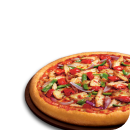
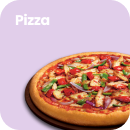
home page is done

diff --git a/project_two/lib/screens/home.dart b/project_two/lib/screens/home.dart
@@ -1,18 +1,91 @@
 import 'package:flutter/material.dart';
+import 'package:project_two/extentions.dart';
+import 'package:project_two/widgets/category_selection_buttons_list.dart';
+import 'package:project_two/widgets/food_menu_list.dart';
+import 'package:project_two/widgets/resturant.dart';
+import 'package:project_two/widgets/resturant_list.dart';
+import 'package:project_two/widgets/search_bar.dart';
 
-class HomeScreen extends StatefulWidget {
+class HomeScreen extends StatelessWidget {
   const HomeScreen({super.key});
 
   @override
-  State<HomeScreen> createState() => _HomeScreenState();
-}
-
-class _HomeScreenState extends State<HomeScreen> {
-  @override
   Widget build(BuildContext context) {
-    return const Scaffold(
-      backgroundColor: Colors.green,
-      body: Center(child: Text("Home")),
+    return Scaffold(
+      body: SingleChildScrollView(
+        scrollDirection: Axis.vertical,
+        child: Center(
+            child: SafeArea(
+                child: Column(children: [
+          const MySearchBar(),
+          Padding(
+            padding:
+                EdgeInsets.only(left: context.getWidithSizing(number: 0.05)),
+            child: const Row(children: [
+              ImageIcon(size: 40, AssetImage('lib/assets/icons/pin.png')),
+              Text(
+                "9 West 46 Th Street, New York City",
+                style: TextStyle(
+                    fontSize: 12,
+                    fontWeight: FontWeight.w400,
+                    fontFamily: 'Roboto'),
+              ),
+            ]),
+          ),
+          const CategoryButtonsList(),
+          Padding(
+            padding: EdgeInsets.only(
+                left: context.getWidithSizing(number: 0.05),
+                right: context.getWidithSizing(number: 0.05)),
+            child: const Row(
+                mainAxisAlignment: MainAxisAlignment.spaceBetween,
+                children: [
+                  Text(
+                    "Food Menu",
+                    style: TextStyle(
+                        fontFamily: 'Poppins',
+                        fontWeight: FontWeight.w700,
+                        fontSize: 18),
+                  ),
+                  Text(
+                    //make clickable?
+                    "View All",
+                    style: TextStyle(
+                        fontFamily: 'Roboto',
+                        fontWeight: FontWeight.w400,
+                        fontSize: 12),
+                  )
+                ]),
+          ),
+          const MenuList(),
+          Padding(
+            padding: EdgeInsets.only(
+                left: context.getWidithSizing(number: 0.05),
+                right: context.getWidithSizing(number: 0.05)),
+            child: const Row(
+                mainAxisAlignment: MainAxisAlignment.spaceBetween,
+                children: [
+                  Text(
+                    "Near Me",
+                    style: TextStyle(
+                        fontFamily: 'Poppins',
+                        fontWeight: FontWeight.w700,
+                        fontSize: 18),
+                  ),
+                  Text(
+                    //make clickable?
+                    "View All",
+                    style: TextStyle(
+                        fontFamily: 'Roboto',
+                        fontWeight: FontWeight.w400,
+                        fontSize: 12),
+                  )
+                ]),
+          ),
+          // const Resturant(),
+          const ResturantList()
+        ]))),
+      ),
     );
   }
 }

diff --git a/project_two/lib/widgets/category_selection_buttons_list.dart b/project_two/lib/widgets/category_selection_buttons_list.dart
@@ -1,0 +1,65 @@
+import 'package:flutter/material.dart';
+import 'package:project_two/extentions.dart';
+import 'package:project_two/widgets/category_selection_button.dart';
+
+class CategoryButtonsList extends StatelessWidget {
+  const CategoryButtonsList({super.key});
+
+  @override
+  Widget build(BuildContext context) {
+    return SingleChildScrollView(
+      scrollDirection: Axis.horizontal,
+      child: Padding(
+        padding: EdgeInsets.only(bottom: context.getWidithSizing(number: 0.05)),
+        child: const Row(
+          children: [
+            Column(children: [
+              CategoryButton(
+                iconColor: Color(0xFF000000),
+                buttonColor: Color(0xFFECF0F1),
+                iconPath: 'lib/assets/icons/coffee-cup.png',
+              ),
+              Text(
+                "Drink",
+                style: TextStyle(fontWeight: FontWeight.w400),
+              )
+            ]),
+            Column(children: [
+              CategoryButton(
+                iconColor: Color(0xFFFFFFFF),
+                buttonColor: Color(0xFFD35400),
+                iconPath: 'lib/assets/icons/burger.png',
+              ),
+              Text(
+                "Food",
+                style: TextStyle(fontWeight: FontWeight.w400),
+              )
+            ]),
+            Column(children: [
+              CategoryButton(
+                iconColor: Color(0xFF000000),
+                buttonColor: Color(0xFFECF0F1),
+                iconPath: 'lib/assets/icons/piece-of-cake.png',
+              ),
+              Text(
+                "Cake",
+                style: TextStyle(fontWeight: FontWeight.w400),
+              )
+            ]),
+            Column(children: [
+              CategoryButton(
+                iconColor: Color(0xFF000000),
+                buttonColor: Color(0xFFECF0F1),
+                iconPath: 'lib/assets/icons/potato-chips.png',
+              ),
+              Text(
+                "Snack",
+                style: TextStyle(fontWeight: FontWeight.w400),
+              )
+            ]),
+          ],
+        ),
+      ),
+    );
+  }
+}

diff --git a/project_two/lib/screens/navgation_bar.dart b/project_two/lib/screens/navgation_bar.dart
@@ -12,6 +12,7 @@ class Navigation extends StatefulWidget {
 
 class _NavigationState extends State<Navigation> {
   int selected = 0;
+  Color selectedColor = const Color(0xFFD35400);
   List<Widget> list = [
     const HomeScreen(),
     const OrderScreen(),
@@ -22,19 +23,23 @@ class _NavigationState extends State<Navigation> {
     return Scaffold(
       body: list[selected],
       bottomNavigationBar: BottomNavigationBar(
+          selectedItemColor: selectedColor, //color brightness?
+          selectedIconTheme: IconThemeData(color: selectedColor),
           currentIndex: selected,
           onTap: (index) {
             selected = index;
             setState(() {});
           },
-          items: [
+          items: const [
             BottomNavigationBarItem(
-                icon: Image.asset('lib/assets/icons/store.png'), label: "Home"),
+                icon: ImageIcon(AssetImage('lib/assets/icons/store.png')),
+                label: "Home"),
             BottomNavigationBarItem(
-                icon: Image.asset('lib/assets/icons/shopping_list .png'),
+                icon: ImageIcon(
+                    AssetImage('lib/assets/icons/shopping_list .png')),
                 label: "Order"),
             BottomNavigationBarItem(
-                icon: Image.asset('lib/assets/icons/person.png'),
+                icon: ImageIcon(AssetImage('lib/assets/icons/person.png')),
                 label: "Profile")
           ]),
     );

diff --git a/project_two/lib/widgets/resturant.dart b/project_two/lib/widgets/resturant.dart
@@ -1,0 +1,45 @@
+import 'package:flutter/material.dart';
+
+class Resturant extends StatelessWidget {
+  const Resturant({super.key});
+
+  @override
+  Widget build(BuildContext context) {
+    return Padding(
+      padding: const EdgeInsets.only(top: 16.0, left: 16.0),
+      child: Row(children: [
+        Image.asset('lib/assets/images/resturant.png'),
+        Padding(
+          padding: const EdgeInsets.all(8.0),
+          child:
+              Column(crossAxisAlignment: CrossAxisAlignment.start, children: [
+            const Padding(
+              padding: EdgeInsets.only(left: 7.0),
+              child: Text(
+                'Dapur Ijah Restaurant',
+                style: TextStyle(
+                    fontFamily: 'Poppins',
+                    fontWeight: FontWeight.w700,
+                    fontSize: 14),
+              ),
+            ),
+            const Row(children: [
+              ImageIcon(AssetImage('lib/assets/icons/pin.png')),
+              Text('13 th Street, 46 W 12th St, NY')
+            ]),
+            const Row(
+              children: [
+                ImageIcon(AssetImage('lib/assets/icons/clock.png')),
+                Text('3 min - 1.1 km')
+              ],
+            ),
+            Padding(
+              padding: const EdgeInsets.only(left: 7.0),
+              child: Image.asset('lib/assets/icons/stars.png'),
+            )
+          ]),
+        )
+      ]),
+    );
+  }
+}

diff --git a/project_two/lib/widgets/category_selection_button.dart b/project_two/lib/widgets/category_selection_button.dart
@@ -1,0 +1,39 @@
+import 'package:flutter/material.dart';
+import 'package:project_two/extentions.dart';
+
+class CategoryButton extends StatelessWidget {
+  const CategoryButton(
+      {super.key,
+      required this.iconColor,
+      required this.buttonColor,
+      required this.iconPath});
+  final Color iconColor;
+  final String iconPath;
+  final Color buttonColor;
+
+  @override
+  Widget build(BuildContext context) {
+    return Padding(
+      padding: EdgeInsets.only(
+        top: context.getWidithSizing(number: 0.05),
+        left: context.getWidithSizing(number: 0.05),
+        right: context.getWidithSizing(number: 0.05),
+        bottom: context.getWidithSizing(number: 0.02),
+      ),
+      child: ClipRRect(
+        borderRadius: BorderRadius.circular(20),
+        child: SizedBox(
+          width: 70,
+          height: 70,
+          child: ElevatedButton(
+              style: ButtonStyle(
+                  backgroundColor:
+                      MaterialStateColor.resolveWith((states) => buttonColor)),
+              onPressed: () {},
+              child:
+                  ImageIcon(size: 30, color: iconColor, AssetImage(iconPath))),
+        ),
+      ),
+    );
+  }
+}

diff --git a/project_two/lib/widgets/search_bar.dart b/project_two/lib/widgets/search_bar.dart
@@ -1,0 +1,24 @@
+import 'package:flutter/material.dart';
+import 'package:project_two/extentions.dart';
+
+class MySearchBar extends StatelessWidget {
+  const MySearchBar({super.key});
+  final fillColor = const Color(0xFFECF0F1);
+  @override
+  Widget build(BuildContext context) {
+    return Padding(
+        padding: EdgeInsets.only(
+            top: context.getHeightSizing(number: 0.05),
+            right: context.getWidithSizing(number: 0.05),
+            left: context.getWidithSizing(number: 0.05)),
+        child: TextField(
+            decoration: InputDecoration(
+                filled: true,
+                fillColor: fillColor,
+                enabledBorder: OutlineInputBorder(
+                    borderRadius: BorderRadius.circular(30),
+                    borderSide: BorderSide(color: fillColor)),
+                hintText: "Search",
+                prefixIcon: const Icon(Icons.search))));
+  }
+}

diff --git a/project_two/lib/widgets/food_menu_list.dart b/project_two/lib/widgets/food_menu_list.dart
@@ -1,0 +1,31 @@
+import 'package:flutter/material.dart';
+
+class MenuList extends StatelessWidget {
+  const MenuList({super.key});
+
+  @override
+  Widget build(BuildContext context) {
+    return SingleChildScrollView(
+      scrollDirection: Axis.horizontal,
+      child: Padding(
+        padding: const EdgeInsets.all(8.0),
+        child: Row(
+          children: [
+            Padding(
+              padding: const EdgeInsets.all(8.0),
+              child: Image.asset('lib/assets/images/burgers.png'),
+            ),
+            Padding(
+              padding: const EdgeInsets.all(8.0),
+              child: Image.asset('lib/assets/images/pizzas.png'),
+            ),
+            Padding(
+              padding: const EdgeInsets.all(8.0),
+              child: Image.asset('lib/assets/images/bbq.png'),
+            ),
+          ],
+        ),
+      ),
+    );
+  }
+}

diff --git a/project_two/lib/screens/starter.dart b/project_two/lib/screens/starter.dart
@@ -17,12 +17,10 @@ class Starter extends StatelessWidget {
                 bottom: context.getHeightSizing(number: 0.05)),
             child: Image.asset('lib/assets/images/hamburger.png'),
           ),
-          const InkWell(
-            child: SignButton(
-              buttonTitle: "Sign In",
-              buttonColor: Color(0xFFD35400),
-              textColor: Color(0xFFFFFFFF),
-            ),
+          const SignButton(
+            buttonTitle: "Sign In",
+            buttonColor: Color(0xFFD35400),
+            textColor: Color(0xFFFFFFFF),
           ),
           const SignButton(
             buttonTitle: "Sign Up",

diff --git a/project_two/lib/main.dart b/project_two/lib/main.dart
@@ -1,6 +1,5 @@
 import 'package:flutter/material.dart';
 import 'package:project_two/screens/navgation_bar.dart';
-import 'package:project_two/screens/starter.dart';
 
 void main() {
   runApp(const MainApp());
@@ -12,6 +11,6 @@ class MainApp extends StatelessWidget {
   @override
   Widget build(BuildContext context) {
     return const MaterialApp(
-        debugShowCheckedModeBanner: false, home: Starter());
+        debugShowCheckedModeBanner: false, home: Navigation());
   }
 }

diff --git a/project_two/lib/widgets/resturant_list.dart b/project_two/lib/widgets/resturant_list.dart
@@ -1,0 +1,11 @@
+import 'package:flutter/material.dart';
+import 'package:project_two/widgets/resturant.dart';
+
+class ResturantList extends StatelessWidget {
+  const ResturantList({super.key});
+
+  @override
+  Widget build(BuildContext context) {
+    return const Column(children: [Resturant(), Resturant()]);
+  }
+}
